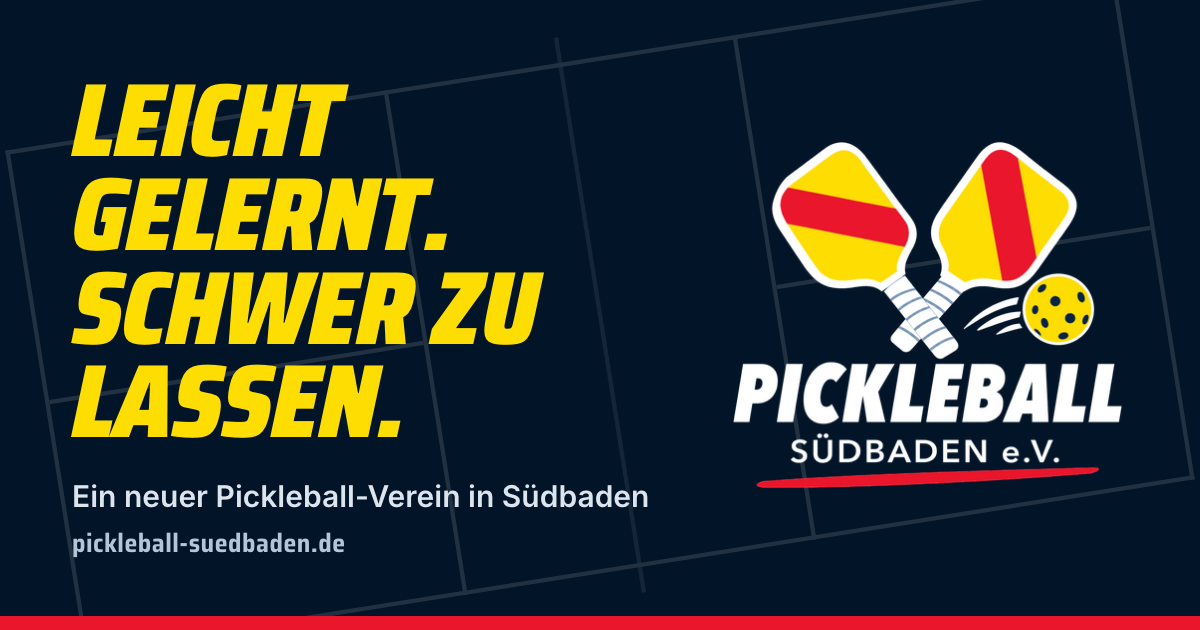
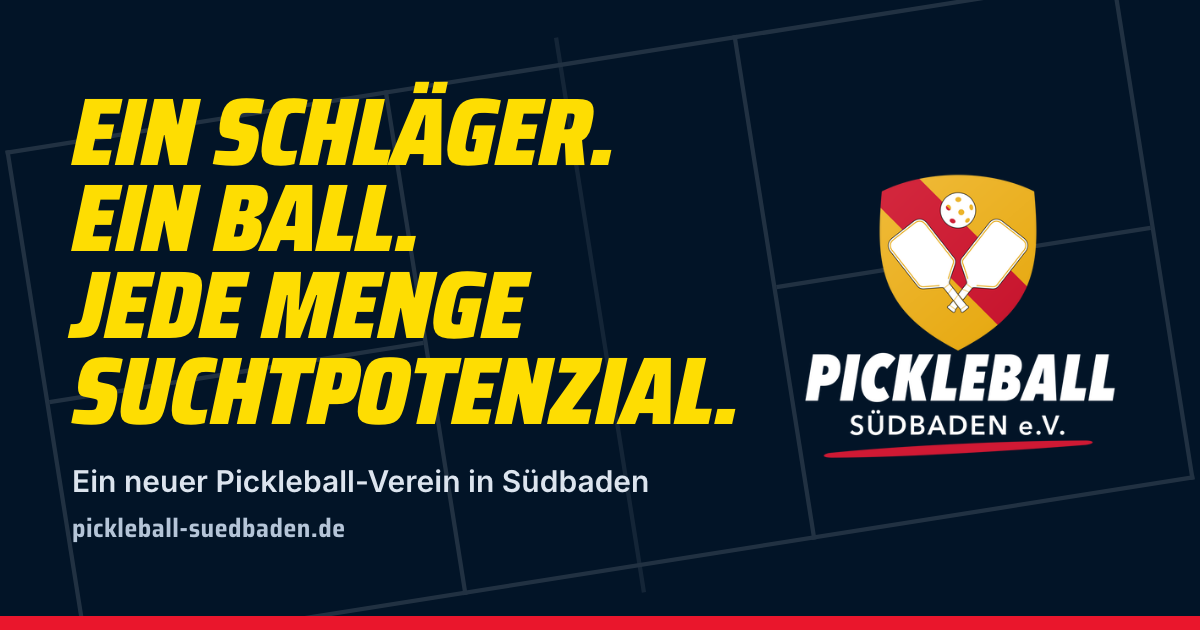
Open the site to search engines and refresh images
Remove noindex from the content pages; the 404 page keeps it.
Redraw the share images with the new slogan and logo, scale the
logos to 3x their display size, and give the logo tags square
width and height to match the new artwork.

Changed region(s): [[0.0308, 0.1206, 0.9558, 0.7841], [0.0617, 0.7238, 0.555, 0.8746]]

diff --git a/index.html b/index.html
@@ -3,7 +3,6 @@
 <head>
 <meta charset="utf-8">
 <meta name="viewport" content="width=device-width, initial-scale=1, viewport-fit=cover">
-<meta name="robots" content="noindex">
 <title>Pickleball Südbaden e.V. · Ein Schläger. Ein Ball. Jede Menge Suchtpotenzial.</title>
 <meta name="description" content="Der Pickleball Südbaden e.V. ist ein neuer, ehrenamtlich geführter Verein, der Pickleball nach Südbaden bringt, ins Grenzgebiet zu Frankreich und der Schweiz. Erfahre, was Pickleball ist, und schreib uns.">
 <link rel="alternate" hreflang="de" href="https://pickleball-suedbaden.de/">
@@ -68,7 +67,7 @@
 <header class="site-header">
   <div class="hdr">
     <a class="brand" href="./">
-      <img src="assets/img/logo-mark-on-dark.png" alt="" width="59" height="40">
+      <img src="assets/img/logo-mark-on-dark.png" alt="" width="40" height="40">
       <span class="brand-name">Pickleball Südbaden e.V.</span>
     </a>
     <a class="btn btn-red hdr-mail" href="mailto:team@pickleball-suedbaden.de?subject=Hallo%2C%20Pickleball%20S%C3%BCdbaden">Schreib uns</a>
@@ -210,7 +209,7 @@
         <p>Wir fangen klein an: erste Hallen, erste Termine, erste Mitspielende. Wenn du den Verein mitgestalten möchtest, schreib uns.</p>
       </div>
     </div>
-    <img class="club-logo" src="assets/img/logo-transparent.png" alt="Logo des Pickleball Südbaden e.V.: zwei gekreuzte gelbe Paddles mit roten Streifen und ein gelber Ball" width="220" height="197">
+    <img class="club-logo" src="assets/img/logo-transparent.png" alt="Logo des Pickleball Südbaden e.V.: zwei gekreuzte gelbe Paddles mit roten Streifen und ein gelber Ball" width="220" height="220">
   </div>
 </section>
 
@@ -249,7 +248,7 @@
   <div class="wrap">
     <p class="loud foot-game" id="footGame"><span class="ball-slot" aria-hidden="true"><svg><use href="#i-ball"/></svg></span>11–0–2. Spiel.</p>
     <div class="foot-grid">
-      <img class="foot-logo" src="assets/img/logo-on-dark.png" alt="Pickleball Südbaden e.V." width="134" height="120">
+      <img class="foot-logo" src="assets/img/logo-on-dark.png" alt="Pickleball Südbaden e.V." width="134" height="134">
       <div>
         <nav aria-label="Rechtliches und Kontakt">
           <ul class="foot-links">

diff --git a/en/index.html b/en/index.html
@@ -3,7 +3,6 @@
 <head>
 <meta charset="utf-8">
 <meta name="viewport" content="width=device-width, initial-scale=1, viewport-fit=cover">
-<meta name="robots" content="noindex">
 <title>Pickleball Südbaden e.V. · One paddle. One ball. Seriously addictive.</title>
 <meta name="description" content="Pickleball Südbaden e.V. is a new volunteer-run club bringing pickleball to Südbaden, in the border region with France and Switzerland. Find out what pickleball is and write to us.">
 <link rel="alternate" hreflang="de" href="https://pickleball-suedbaden.de/">
@@ -68,7 +67,7 @@
 <header class="site-header">
   <div class="hdr">
     <a class="brand" href="./">
-      <img src="../assets/img/logo-mark-on-dark.png" alt="" width="59" height="40">
+      <img src="../assets/img/logo-mark-on-dark.png" alt="" width="40" height="40">
       <span class="brand-name">Pickleball Südbaden e.V.</span>
     </a>
     <a class="btn btn-red hdr-mail" href="mailto:team@pickleball-suedbaden.de?subject=Hello%2C%20Pickleball%20S%C3%BCdbaden">Write to us</a>
@@ -210,7 +209,7 @@
         <p>We’re starting small: first halls, first dates, first players. If you’d like to help shape the club, write to us.</p>
       </div>
     </div>
-    <img class="club-logo" src="../assets/img/logo-transparent.png" alt="Pickleball Südbaden e.V. logo: two crossed yellow paddles with red stripes and a yellow ball" width="220" height="197">
+    <img class="club-logo" src="../assets/img/logo-transparent.png" alt="Pickleball Südbaden e.V. logo: two crossed yellow paddles with red stripes and a yellow ball" width="220" height="220">
   </div>
 </section>
 
@@ -249,7 +248,7 @@
   <div class="wrap">
     <p class="loud foot-game" id="footGame"><span class="ball-slot" aria-hidden="true"><svg><use href="#i-ball"/></svg></span>11–0–2. Game.</p>
     <div class="foot-grid">
-      <img class="foot-logo" src="../assets/img/logo-on-dark.png" alt="Pickleball Südbaden e.V." width="134" height="120">
+      <img class="foot-logo" src="../assets/img/logo-on-dark.png" alt="Pickleball Südbaden e.V." width="134" height="134">
       <div>
         <nav aria-label="Legal and contact">
           <ul class="foot-links">

diff --git a/datenschutz/index.html b/datenschutz/index.html
@@ -3,7 +3,6 @@
 <head>
 <meta charset="utf-8">
 <meta name="viewport" content="width=device-width, initial-scale=1, viewport-fit=cover">
-<meta name="robots" content="noindex">
 <title>Datenschutzerklärung · Pickleball Südbaden e.V.</title>
 <meta name="description" content="Datenschutzerklärung des Pickleball Südbaden e.V.: Hosting bei GitHub Pages, Kontakt per E-Mail, keine Cookies, kein Tracking, Rechte der betroffenen Personen.">
 <link rel="alternate" hreflang="de" href="https://pickleball-suedbaden.de/datenschutz/">
@@ -49,7 +48,7 @@
 <header class="site-header">
   <div class="hdr">
     <a class="brand" href="../">
-      <img src="../assets/img/logo-mark-on-dark.png" alt="" width="59" height="40">
+      <img src="../assets/img/logo-mark-on-dark.png" alt="" width="40" height="40">
       <span class="brand-name">Pickleball Südbaden e.V.</span>
     </a>
     <nav class="lang" aria-label="Sprache">

diff --git a/impressum/index.html b/impressum/index.html
@@ -3,7 +3,6 @@
 <head>
 <meta charset="utf-8">
 <meta name="viewport" content="width=device-width, initial-scale=1, viewport-fit=cover">
-<meta name="robots" content="noindex">
 <title>Impressum · Pickleball Südbaden e.V.</title>
 <meta name="description" content="Impressum des Pickleball Südbaden e.V.: Anschrift, Vorstand, Vereinsregister und Kontakt.">
 <link rel="alternate" hreflang="de" href="https://pickleball-suedbaden.de/impressum/">
@@ -49,7 +48,7 @@
 <header class="site-header">
   <div class="hdr">
     <a class="brand" href="../">
-      <img src="../assets/img/logo-mark-on-dark.png" alt="" width="59" height="40">
+      <img src="../assets/img/logo-mark-on-dark.png" alt="" width="40" height="40">
       <span class="brand-name">Pickleball Südbaden e.V.</span>
     </a>
     <nav class="lang" aria-label="Sprache">
